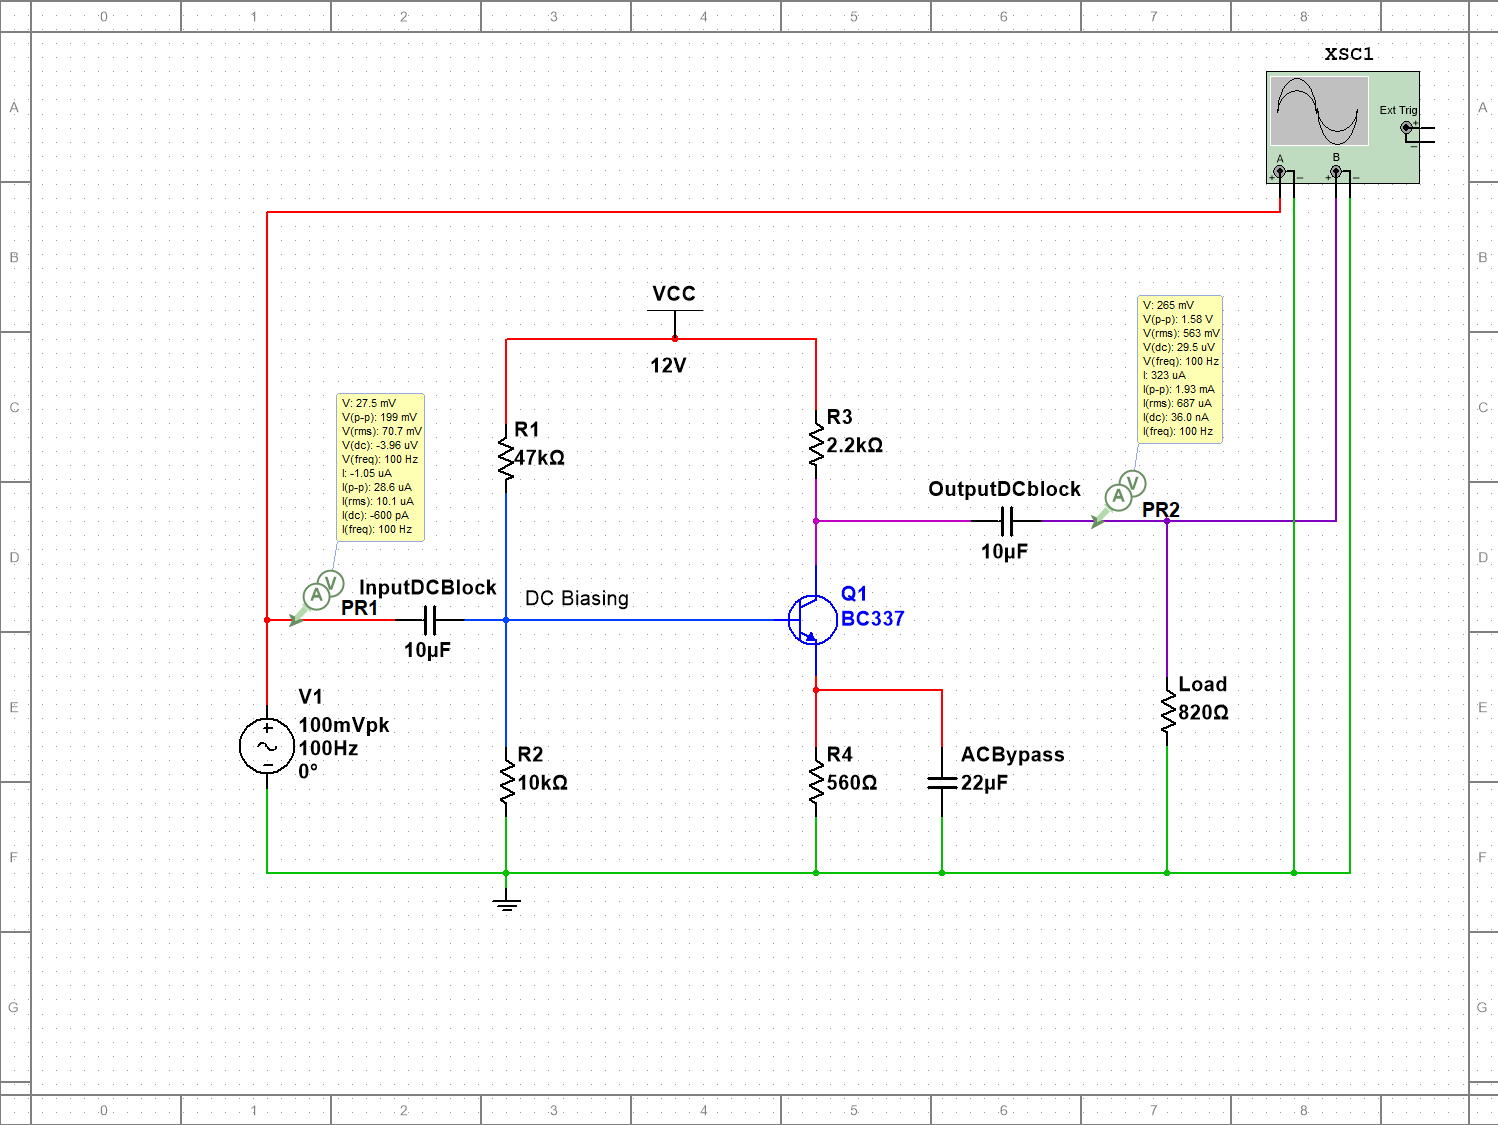
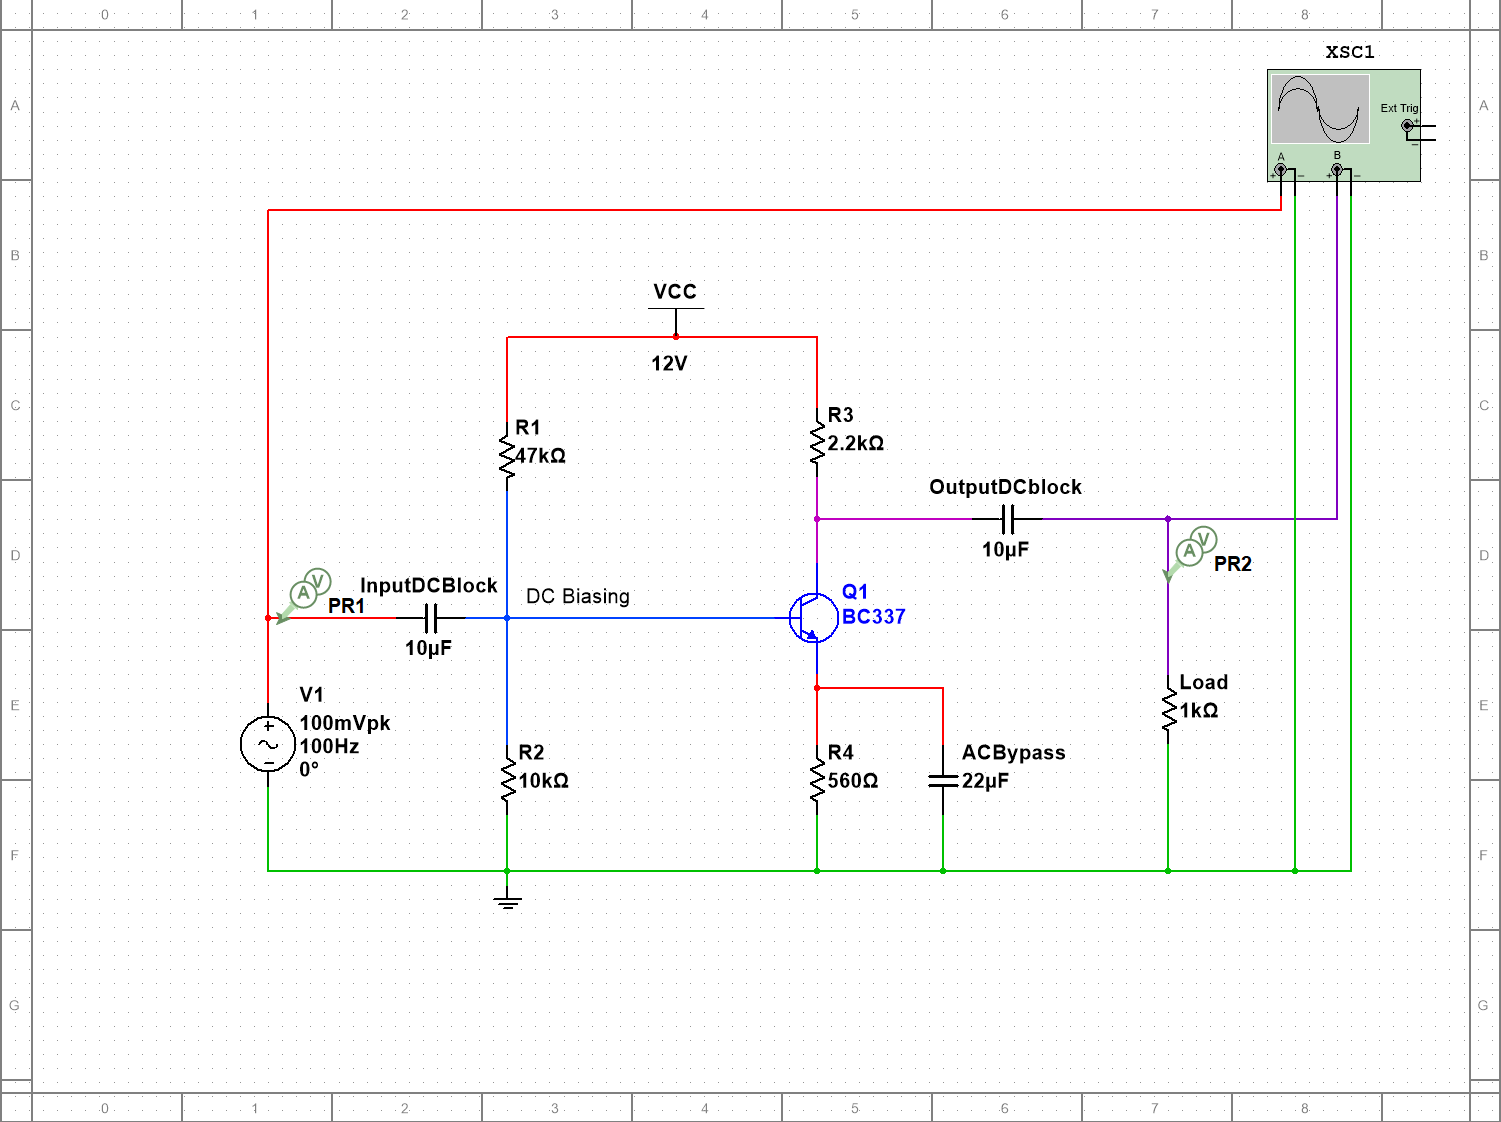
Update Content

diff --git a/Multisim Circuits/Amplifier/CE Amplifier BC337/README.md b/Multisim Circuits/Amplifier/CE Amplifier BC337/README.md
@@ -497,3 +497,26 @@ The captures in `Scope PNG/` confirm the expected common-emitter behaviour over 
 | 2–10 MHz | High-frequency amplitude falls as frequency rises; the 10 MHz capture shows noticeably smaller output. |
 
 The 50 Hz, 100 Hz, 200 Hz, 500 Hz, 1 kHz, 2 kHz, 5 kHz, and 10 kHz captures show a clear phase-inverted output. Higher-frequency captures retain inversion in the midband and then include increasing distortion from the oscilloscope trace, transistor bandwidth, probe/layout capacitance, and breadboard parasitics.
+
+## Hardware oscilloscope captures
+
+| Frequency | Input and output capture |
+|---|---|
+| 50 Hz | ![Hardware oscilloscope capture at 50 Hz](Scope%20PNG/50Hz.png) |
+| 100 Hz | ![Hardware oscilloscope capture at 100 Hz](Scope%20PNG/100Hz.png) |
+| 200 Hz | ![Hardware oscilloscope capture at 200 Hz](Scope%20PNG/200Hz.png) |
+| 500 Hz | ![Hardware oscilloscope capture at 500 Hz](Scope%20PNG/500Hz.png) |
+| 1 kHz | ![Hardware oscilloscope capture at 1 kHz](Scope%20PNG/1kHz.png) |
+| 2 kHz | ![Hardware oscilloscope capture at 2 kHz](Scope%20PNG/2kHz.png) |
+| 5 kHz | ![Hardware oscilloscope capture at 5 kHz](Scope%20PNG/5kHz.png) |
+| 10 kHz | ![Hardware oscilloscope capture at 10 kHz](Scope%20PNG/10kHz.png) |
+| 50 kHz | ![Hardware oscilloscope capture at 50 kHz](Scope%20PNG/50kHz.png) |
+| 100 kHz | ![Hardware oscilloscope capture at 100 kHz](Scope%20PNG/100kHz.png) |
+| 200 kHz | ![Hardware oscilloscope capture at 200 kHz](Scope%20PNG/200kHz.png) |
+| 500 kHz | ![Hardware oscilloscope capture at 500 kHz](Scope%20PNG/500kHz.png) |
+| 1 MHz | ![Hardware oscilloscope capture at 1 MHz](Scope%20PNG/1MHz.png) |
+| 2 MHz | ![Hardware oscilloscope capture at 2 MHz](Scope%20PNG/2MHz.png) |
+| 5 MHz | ![Hardware oscilloscope capture at 5 MHz](Scope%20PNG/5MHz.png) |
+| 10 MHz | ![Hardware oscilloscope capture at 10 MHz](Scope%20PNG/10MHz.png) |
+
+The captures use Channel 1 for the yellow input waveform and Channel 2 for the magenta output waveform. Measurements may differ between images because horizontal scale, vertical scale, trigger level, and waveform cursors change with frequency.
